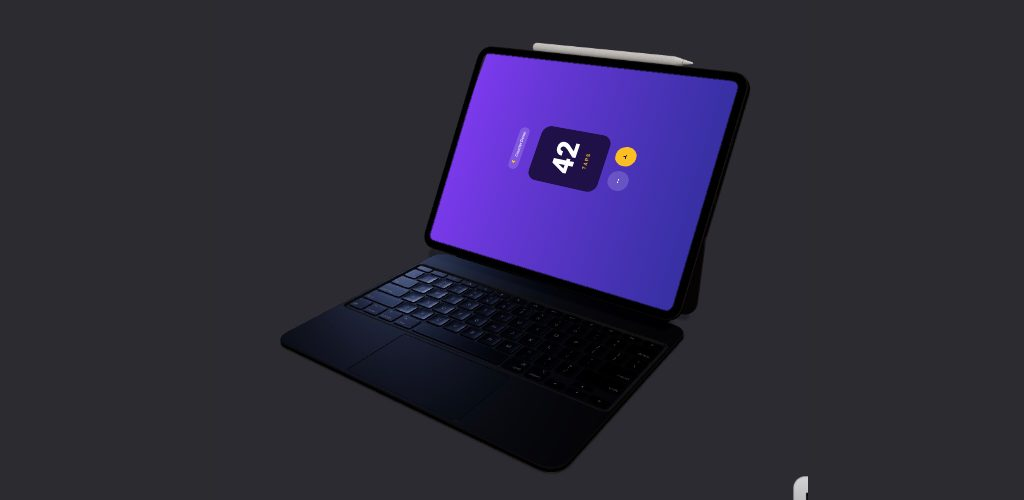
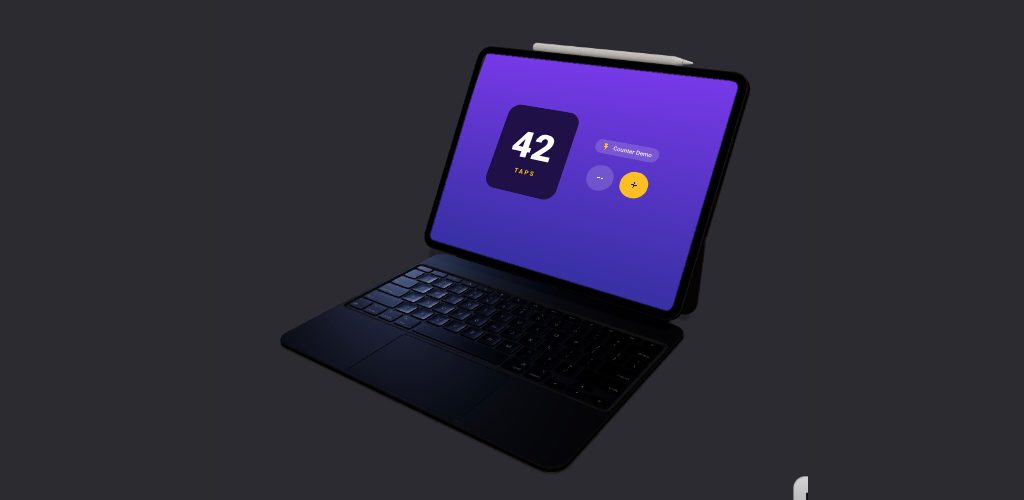
Collapse screens/deviceKinds/screenRotations into one Screen list
DeviceImageMockup took three parallel lists (the content lambdas, the
device kinds, the rotations) that had to line up by index. Replace them
with a single `screens: List<Screen>`, where Screen(kind, rotation?, content)
bundles each screen's settings in one place. Drop the scalar
`screenNativeWidth` too — width now comes from the kind (or a default when
the kind is null).

Changed region(s): [[0.4062, 0.12, 0.7188, 0.57]]

diff --git a/library/src/main/kotlin/dev/lucianosantos/storescreenshots/DeviceImageMockup.kt b/library/src/main/kotlin/dev/lucianosantos/storescreenshots/DeviceImageMockup.kt
@@ -37,9 +37,9 @@ import kotlin.math.min
 import kotlin.math.sin
 
 /**
- * A manual quarter-turn applied to a screen's content (clockwise), on top of the auto-detected
- * orientation. Pass via `DeviceImageMockup(..., screenRotations = …)` to override how the UI sits on
- * a screen — e.g. spin a square watch face or flip a device the detector guessed upside down.
+ * A manual quarter-turn applied to a screen's content (clockwise), on top of its [DeviceKind]/auto
+ * orientation. Pass it on a [Screen] (`Screen(kind, rotation = …) { … }`) to override how the UI sits —
+ * e.g. spin a square watch face or flip a device the detector guessed upside down.
  */
 enum class ScreenRotation(internal val quarterTurns: Int) {
     None(0),
@@ -52,9 +52,9 @@ enum class ScreenRotation(internal val quarterTurns: Int) {
 internal enum class KindOrientation { Portrait, Landscape, FromImage }
 
 /**
- * The kind of device a screen belongs to in a [DeviceImageMockup] frame. Pass one per screen
- * (left-to-right, matching the detected order) via `deviceKinds` to set each screen's orientation and
- * the width its UI is composed at — explicitly, instead of leaving it to geometry. That removes the
+ * The kind of device a screen belongs to in a [DeviceImageMockup] frame. Set it on a [Screen]
+ * (`Screen(DeviceKind.Desktop) { … }`) to fix that screen's orientation and the width its UI is
+ * composed at — explicitly, instead of leaving it to geometry. That removes the
  * ambiguity a near-square screen creates: a watch worn at an angle and a small landscape screen look
  * identical, so only you know which is which. Each kind also picks a sensible native layout width so a
  * desktop's UI isn't laid out at phone size.
@@ -71,6 +71,21 @@ enum class DeviceKind(internal val nativeWidth: Dp, internal val orientation: Ki
     /** A desktop monitor — landscape, composed at the largest width. */
     Desktop(1000.dp, KindOrientation.Landscape),
 }
+
+/** Width a screen's UI is laid out at when its [DeviceKind] is unknown (height follows the screen). */
+private val DefaultNativeWidth = 411.dp
+
+/**
+ * One screen to composite into a [DeviceImageMockup] frame. [kind] sets its orientation and the width
+ * its UI is laid out at; leave it `null` to let the library guess from the screen's shape. [rotation]
+ * applies an extra manual quarter-turn on top of that. [content] is the live UI to draw. Pass these
+ * left-to-right, matching the order screens are detected in the frame.
+ */
+class Screen(
+    val kind: DeviceKind? = null,
+    val rotation: ScreenRotation = ScreenRotation.None,
+    val content: @Composable () -> Unit,
+)
 
 /**
  * The four corners of a device screen inside a frame image, as fractions (0f..1f) of the image:
@@ -347,11 +362,11 @@ private fun minAreaRect(hull: List<Offset>): Pair<Float, List<Offset>> {
  * ```kotlin
  * DeviceImageMockup(
  *     frame = ImageBitmap.imageResource(R.drawable.three_phones),
- *     screens = listOf({ HomeScreen() }, { SettingsScreen() }, { ProfileScreen() }),
+ *     screens = listOf(Screen { HomeScreen() }, Screen { SettingsScreen() }, Screen { ProfileScreen() }),
  * )
  * ```
  *
- * Each screen's content is laid out at a real-device width ([screenNativeWidth], height derived
+ * Each [Screen]'s content is laid out at a real-device width (from its [Screen.kind], height derived
  * from that screen's detected quad so it isn't distorted), recorded, then perspective-warped onto
  * the quad. The whole mockup keeps the image's aspect ratio and is sized by [modifier].
  *
@@ -365,20 +380,17 @@ private fun minAreaRect(hull: List<Offset>): Pair<Float, List<Offset>> {
 @Composable
 fun DeviceImageMockup(
     frame: ImageBitmap,
-    screens: List<@Composable () -> Unit>,
+    screens: List<Screen>,
     modifier: Modifier = Modifier,
-    screenNativeWidth: Dp = 411.dp,
     screenColor: Color? = null,
     bezelDarkness: Float = 0.35f,
     screenColorTolerance: Float = 0.5f,
-    screenRotations: List<ScreenRotation> = emptyList(),
-    deviceKinds: List<DeviceKind> = emptyList(),
 ) {
     val regions = remember(frame, screenColor, bezelDarkness, screenColorTolerance) {
         if (screenColor != null) detectScreenRegionsByColor(frame, screenColor, screenColorTolerance)
         else detectScreenRegions(frame, bezelDarkness)
     }
-    DeviceImageMockup(frame, regions, screens, modifier, screenNativeWidth, screenColorTolerance, screenRotations, deviceKinds)
+    DeviceImageMockup(frame, regions, screens, modifier, screenColorTolerance)
 }
 
 /**
@@ -390,12 +402,9 @@ fun DeviceImageMockup(
 fun DeviceImageMockup(
     frame: ImageBitmap,
     regions: List<ScreenRegion>,
-    screens: List<@Composable () -> Unit>,
+    screens: List<Screen>,
     modifier: Modifier = Modifier,
-    screenNativeWidth: Dp = 411.dp,
     screenColorTolerance: Float = 0.5f,
-    screenRotations: List<ScreenRotation> = emptyList(),
-    deviceKinds: List<DeviceKind> = emptyList(),
 ) {
     val density = LocalDensity.current
     val fw = frame.width.toFloat()
@@ -405,16 +414,17 @@ fun DeviceImageMockup(
 
     // Width each screen's content is laid out at (height follows the screen's aspect). A device family
     // mixes very different sizes, so each screen takes its [DeviceKind]'s native width — a desktop laid
-    // out at phone width gets an oversized UI. Falls back to the single [screenNativeWidth].
-    fun nativeWidth(i: Int): Dp = deviceKinds.getOrNull(i)?.nativeWidth ?: screenNativeWidth
+    // out at phone width gets an oversized UI. With no kind, fall back to a default phone-ish width.
+    fun nativeWidth(i: Int): Dp = screens[i].kind?.nativeWidth ?: DefaultNativeWidth
 
     // Magic-wand each screen from its center at full resolution: flood the contiguous pixels close
     // in colour to the seed (the bezel's colour change stops the flood), which selects the EXACT
     // screen — out to the true edge, rounded corners and all. That mask is knocked out of the frame
     // (content shows through, bezel crops), and the content corners are recomputed from it so the UI
     // fills the screen with no inset rim.
-    val (knockedFrame, refined, visibleCounts) = remember(frame, regions, screenColorTolerance, deviceKinds) {
-        magicWandScreens(frame, regions.take(n), screenColorTolerance, deviceKinds.map { it.orientation })
+    val kinds = screens.take(n).map { it.kind }
+    val (knockedFrame, refined, visibleCounts) = remember(frame, regions, screenColorTolerance, kinds) {
+        magicWandScreens(frame, regions.take(n), screenColorTolerance, kinds.map { it?.orientation })
     }
 
     // The device silhouette (the original frame's own alpha): content is masked to it so overshoot
@@ -428,7 +438,7 @@ fun DeviceImageMockup(
     }
 
     // Optional manual quarter-turn per screen, on top of the auto-detected orientation.
-    fun steps(i: Int) = screenRotations.getOrElse(i) { ScreenRotation.None }.quarterTurns
+    fun steps(i: Int) = screens[i].rotation.quarterTurns
 
     // Content size: the screen's aspect, swapped for a quarter-turn so the rotated UI still fills it.
     fun nativeHeight(r: ScreenRegion, rotSteps: Int, nw: Dp): Dp {
@@ -453,7 +463,7 @@ fun DeviceImageMockup(
                         layout(0, 0) { placeable.place(0, 0) }
                     }
                     .drawWithContent { layers[i].record { [email redacted]() } }
-            ) { Box(Modifier.fillMaxSize()) { screens[i]() } }
+            ) { Box(Modifier.fillMaxSize()) { screens[i].content() } }
         }
 
         // Depth order: a screen partly hidden by another device's frame floods fewer pixels than its
@@ -822,19 +832,17 @@ fun DeviceImageMockup(
     screenBottomRight: Offset,
     screenBottomLeft: Offset,
     modifier: Modifier = Modifier,
-    screenNativeWidth: Dp = 411.dp,
     screenColorTolerance: Float = 0.5f,
+    kind: DeviceKind? = null,
     rotation: ScreenRotation = ScreenRotation.None,
     content: @Composable () -> Unit,
 ) {
     DeviceImageMockup(
         frame = frame,
         regions = listOf(ScreenRegion(screenTopLeft, screenTopRight, screenBottomRight, screenBottomLeft)),
-        screens = listOf(content),
+        screens = listOf(Screen(kind, rotation, content)),
         modifier = modifier,
-        screenNativeWidth = screenNativeWidth,
         screenColorTolerance = screenColorTolerance,
-        screenRotations = listOf(rotation),
     )
 }
 

diff --git a/example/src/screenshots/kotlin/dev/lucianosantos/storescreenshots/example/DeviceImageMockupTest.kt b/example/src/screenshots/kotlin/dev/lucianosantos/storescreenshots/example/DeviceImageMockupTest.kt
@@ -30,6 +30,7 @@ import androidx.compose.ui.unit.dp
 import androidx.compose.ui.unit.sp
 import dev.lucianosantos.storescreenshots.DeviceImageMockup
 import dev.lucianosantos.storescreenshots.DeviceKind
+import dev.lucianosantos.storescreenshots.Screen
 import dev.lucianosantos.storescreenshots.FormFactor
 import dev.lucianosantos.storescreenshots.StoreScreenshotsTest
 import org.junit.Test
@@ -47,9 +48,9 @@ class DeviceImageMockupTest : StoreScreenshotsTest(FormFactor.GooglePlayFeatureG
                 frame = frame("phone_mockup_trio.jpg"),
                 screens = listOf(
                     // Distinct counts and background colours — three independent screens, not one repeated.
-                    { CounterScreen(count = 7, background = Brush.verticalGradient(listOf(Color(0xFF2563EB), Color(0xFF1E3A8A)))) },
-                    { CounterScreen(count = 42) },
-                    { CounterScreen(count = 99, background = Brush.verticalGradient(listOf(Color(0xFFE11D48), Color(0xFF881337)))) },
+                    Screen { CounterScreen(count = 7, background = Brush.verticalGradient(listOf(Color(0xFF2563EB), Color(0xFF1E3A8A)))) },
+                    Screen { CounterScreen(count = 42) },
+                    Screen { CounterScreen(count = 99, background = Brush.verticalGradient(listOf(Color(0xFFE11D48), Color(0xFF881337)))) },
                 ),
                 modifier = Modifier.fillMaxHeight(),
             )
@@ -60,7 +61,7 @@ class DeviceImageMockupTest : StoreScreenshotsTest(FormFactor.GooglePlayFeatureG
     @Test
     fun device_image_podium() = customScreenshot {
         Box(Modifier.fillMaxSize().background(Color(0xFFF3DAD2)), contentAlignment = Alignment.Center) {
-            DeviceImageMockup(frame("phone_mockup_podium.jpg"), screens = listOf { CounterScreen(count = 42) }, modifier = Modifier.fillMaxHeight())
+            DeviceImageMockup(frame("phone_mockup_podium.jpg"), screens = listOf(Screen { CounterScreen(count = 42) }), modifier = Modifier.fillMaxHeight())
         }
     }
 
@@ -70,9 +71,9 @@ class DeviceImageMockupTest : StoreScreenshotsTest(FormFactor.GooglePlayFeatureG
         Box(Modifier.fillMaxSize().background(Color(0xFF2B2B30)), contentAlignment = Alignment.Center) {
             DeviceImageMockup(
                 frame("tablet_mockup_keyboard.jpg"),
-                screens = listOf { CounterScreen(count = 42) },
+                // kind = Tablet lays the UI out at tablet size (not phone size) and orients to the image.
+                screens = listOf(Screen(DeviceKind.Tablet) { CounterScreen(count = 42) }),
                 modifier = Modifier.fillMaxHeight(),
-                screenNativeWidth = 760.dp, // lay the UI out at tablet size, not phone size
             )
         }
     }
@@ -129,7 +130,7 @@ class DeviceImageMockupTest : StoreScreenshotsTest(FormFactor.GooglePlayFeatureG
                 Box(Modifier.weight(0.95f).fillMaxHeight(), contentAlignment = Alignment.Center) {
                     DeviceImageMockup(
                         frame("phone_chroma.png"),
-                        screens = listOf { CounterScreen(count = 42) },
+                        screens = listOf(Screen { CounterScreen(count = 42) }),
                         modifier = Modifier.fillMaxHeight(0.96f),
                         screenColor = Color.Green,
                         screenColorTolerance = 0.2f,
@@ -146,12 +147,11 @@ class DeviceImageMockupTest : StoreScreenshotsTest(FormFactor.GooglePlayFeatureG
         Box(Modifier.fillMaxSize().clipToBounds(), contentAlignment = Alignment.Center) {
             DeviceImageMockup(
                 frame("watch_chroma.png"),
-                screens = listOf { WearCounterScreen(count = 42) },
+                // kind = Watch orients by the longer edge (taller than wide) even worn at an angle.
+                screens = listOf(Screen(DeviceKind.Watch) { WearCounterScreen(count = 42) }),
                 modifier = Modifier.fillMaxWidth(),
                 screenColor = Color.Red,
                 screenColorTolerance = 0.2f,
-                // It's a watch — orient by the longer edge (taller than wide) even worn at an angle.
-                deviceKinds = listOf(DeviceKind.Watch),
             )
         }
     }
@@ -197,17 +197,15 @@ class DeviceImageMockupTest : StoreScreenshotsTest(FormFactor.GooglePlayFeatureG
             }
             DeviceImageMockup(
                 frame("four_devices_chroma.png"),
+                // Four independent screens (left-to-right) — each tagged with its device kind, which sets
+                // the orientation (landscape laptop/desktop, portrait phone/tablet) and native width —
+                // and given a different count AND background colour.
                 screens = listOf(
-                    // Four independent screens — different counts AND background colours, laid out
-                    // left-to-right: laptop, desktop, phone, tablet.
-                    { CounterScreen(count = 512, background = Brush.verticalGradient(listOf(Color(0xFF2563EB), Color(0xFF1E3A8A)))) },   // laptop
-                    { CounterScreen(count = 1024, background = Brush.verticalGradient(listOf(Color(0xFF059669), Color(0xFF064E3B)))) }, // desktop
-                    { CounterScreen(count = 7) },                                                                                        // phone (default purple)
-                    { CounterScreen(count = 42, background = Brush.verticalGradient(listOf(Color(0xFFF97316), Color(0xFF7C2D12)))) },    // tablet
+                    Screen(DeviceKind.Laptop) { CounterScreen(count = 512, background = Brush.verticalGradient(listOf(Color(0xFF2563EB), Color(0xFF1E3A8A)))) },
+                    Screen(DeviceKind.Desktop) { CounterScreen(count = 1024, background = Brush.verticalGradient(listOf(Color(0xFF059669), Color(0xFF064E3B)))) },
+                    Screen(DeviceKind.Phone) { CounterScreen(count = 7) },
+                    Screen(DeviceKind.Tablet) { CounterScreen(count = 42, background = Brush.verticalGradient(listOf(Color(0xFFF97316), Color(0xFF7C2D12)))) },
                 ),
-                // Tell the library each screen's device kind (left-to-right) — it sets the orientation
-                // (landscape laptop/desktop, portrait phone/tablet) and a fitting native layout width.
-                deviceKinds = listOf(DeviceKind.Laptop, DeviceKind.Desktop, DeviceKind.Phone, DeviceKind.Tablet),
                 modifier = Modifier.align(Alignment.BottomEnd).fillMaxHeight(0.74f),
                 screenColor = Color.Red,
                 screenColorTolerance = 0.25f,
@@ -223,8 +221,8 @@ class DeviceImageMockupTest : StoreScreenshotsTest(FormFactor.GooglePlayFeatureG
                 frame = frame("watch_phone_mockup.jpg"),
                 // Different count and background per device — the watch and phone run independent UIs.
                 screens = listOf(
-                    { WearCounterScreen(count = 7, background = Brush.verticalGradient(listOf(Color(0xFF059669), Color(0xFF064E3B)))) },
-                    { CounterScreen(count = 42) },
+                    Screen(DeviceKind.Watch) { WearCounterScreen(count = 7, background = Brush.verticalGradient(listOf(Color(0xFF059669), Color(0xFF064E3B)))) },
+                    Screen(DeviceKind.Phone) { CounterScreen(count = 42) },
                 ),
                 modifier = Modifier.fillMaxHeight().scale(1.5f).offset(x = 24.dp, y = 36.dp),
             )

diff --git a/example/src/debug/kotlin/dev/lucianosantos/storescreenshots/example/ScreenshotPreviews.kt b/example/src/debug/kotlin/dev/lucianosantos/storescreenshots/example/ScreenshotPreviews.kt
@@ -34,6 +34,7 @@ import androidx.compose.ui.unit.sp
 import dev.lucianosantos.storescreenshots.AppleIPhone67ScreenshotPreview
 import dev.lucianosantos.storescreenshots.DeviceImageMockup
 import dev.lucianosantos.storescreenshots.DeviceKind
+import dev.lucianosantos.storescreenshots.Screen
 import dev.lucianosantos.storescreenshots.DeviceMockup
 import dev.lucianosantos.storescreenshots.FormFactor
 import dev.lucianosantos.storescreenshots.GooglePlayFeatureGraphicScreenshotPreview
@@ -135,9 +136,9 @@ fun DeviceImageTrioPreview() {
         DeviceImageMockup(
             frame = mockupFrame("phone_mockup_trio.jpg"),
             screens = listOf(
-                { CounterScreen(count = 7, background = Brush.verticalGradient(listOf(Color(0xFF2563EB), Color(0xFF1E3A8A)))) },
-                { CounterScreen(count = 42) },
-                { CounterScreen(count = 99, background = Brush.verticalGradient(listOf(Color(0xFFE11D48), Color(0xFF881337)))) },
+                Screen { CounterScreen(count = 7, background = Brush.verticalGradient(listOf(Color(0xFF2563EB), Color(0xFF1E3A8A)))) },
+                Screen { CounterScreen(count = 42) },
+                Screen { CounterScreen(count = 99, background = Brush.verticalGradient(listOf(Color(0xFFE11D48), Color(0xFF881337)))) },
             ),
             modifier = Modifier.fillMaxHeight(),
         )
@@ -148,7 +149,7 @@ fun DeviceImageTrioPreview() {
 @Composable
 fun DeviceImagePodiumPreview() {
     Box(Modifier.fillMaxSize().background(Color(0xFFF3DAD2)), contentAlignment = Alignment.Center) {
-        DeviceImageMockup(mockupFrame("phone_mockup_podium.jpg"), screens = listOf { CounterScreen(count = 42) }, modifier = Modifier.fillMaxHeight())
+        DeviceImageMockup(mockupFrame("phone_mockup_podium.jpg"), screens = listOf(Screen { CounterScreen(count = 42) }), modifier = Modifier.fillMaxHeight())
     }
 }
 
@@ -158,9 +159,8 @@ fun DeviceImageTabletPreview() {
     Box(Modifier.fillMaxSize().background(Color(0xFF2B2B30)), contentAlignment = Alignment.Center) {
         DeviceImageMockup(
             mockupFrame("tablet_mockup_keyboard.jpg"),
-            screens = listOf { CounterScreen(count = 42) },
+            screens = listOf(Screen(DeviceKind.Tablet) { CounterScreen(count = 42) }),
             modifier = Modifier.fillMaxHeight(),
-            screenNativeWidth = 760.dp,
         )
     }
 }
@@ -184,7 +184,7 @@ fun DeviceImageChromaPreview() {
             Box(Modifier.weight(0.95f).fillMaxHeight(), contentAlignment = Alignment.Center) {
                 DeviceImageMockup(
                     mockupFrame("phone_chroma.png"),
-                    screens = listOf { CounterScreen(count = 42) },
+                    screens = listOf(Screen { CounterScreen(count = 42) }),
                     modifier = Modifier.fillMaxHeight(0.96f),
                     screenColor = Color.Green,
                     screenColorTolerance = 0.2f,
@@ -200,9 +200,8 @@ fun DeviceImageWatchChromaPreview() {
     Box(Modifier.fillMaxSize().clipToBounds(), contentAlignment = Alignment.Center) {
         DeviceImageMockup(
             mockupFrame("watch_chroma.png"),
-            screens = listOf { WearCounterScreen(count = 42) },
+            screens = listOf(Screen(DeviceKind.Watch) { WearCounterScreen(count = 42) }),
             modifier = Modifier.fillMaxWidth(),
-            screenNativeWidth = 200.dp,
             screenColor = Color.Red,
             screenColorTolerance = 0.2f,
         )
@@ -216,8 +215,8 @@ fun DeviceImageWatchPhonePreview() {
         DeviceImageMockup(
             frame = mockupFrame("watch_phone_mockup.jpg"),
             screens = listOf(
-                { WearCounterScreen(count = 7, background = Brush.verticalGradient(listOf(Color(0xFF059669), Color(0xFF064E3B)))) },
-                { CounterScreen(count = 42) },
+                Screen(DeviceKind.Watch) { WearCounterScreen(count = 7, background = Brush.verticalGradient(listOf(Color(0xFF059669), Color(0xFF064E3B)))) },
+                Screen(DeviceKind.Phone) { CounterScreen(count = 42) },
             ),
             modifier = Modifier.fillMaxHeight().scale(1.5f).offset(x = 24.dp, y = 36.dp),
         )
@@ -241,12 +240,11 @@ fun DeviceImageFourDevicesChromaPreview() {
         DeviceImageMockup(
             mockupFrame("four_devices_chroma.png"),
             screens = listOf(
-                { CounterScreen(count = 512, background = Brush.verticalGradient(listOf(Color(0xFF2563EB), Color(0xFF1E3A8A)))) },
-                { CounterScreen(count = 1024, background = Brush.verticalGradient(listOf(Color(0xFF059669), Color(0xFF064E3B)))) },
-                { CounterScreen(count = 7) },
-                { CounterScreen(count = 42, background = Brush.verticalGradient(listOf(Color(0xFFF97316), Color(0xFF7C2D12)))) },
+                Screen(DeviceKind.Laptop) { CounterScreen(count = 512, background = Brush.verticalGradient(listOf(Color(0xFF2563EB), Color(0xFF1E3A8A)))) },
+                Screen(DeviceKind.Desktop) { CounterScreen(count = 1024, background = Brush.verticalGradient(listOf(Color(0xFF059669), Color(0xFF064E3B)))) },
+                Screen(DeviceKind.Phone) { CounterScreen(count = 7) },
+                Screen(DeviceKind.Tablet) { CounterScreen(count = 42, background = Brush.verticalGradient(listOf(Color(0xFFF97316), Color(0xFF7C2D12)))) },
             ),
-            deviceKinds = listOf(DeviceKind.Laptop, DeviceKind.Desktop, DeviceKind.Phone, DeviceKind.Tablet),
             modifier = Modifier.align(Alignment.BottomEnd).fillMaxHeight(0.74f),
             screenColor = Color.Red,
             screenColorTolerance = 0.25f,

diff --git a/README.md b/README.md
@@ -426,19 +426,25 @@ automatically, and your UI fills each one (the device's own bezel does the cropp
 @Test fun home() = customScreenshot {
     DeviceImageMockup(
         frame = frame("three_phones.jpg"),
-        screens = listOf({ HomeScreen() }, { SettingsScreen() }, { ProfileScreen() }), // left → right
+        screens = listOf(Screen { HomeScreen() }, Screen { SettingsScreen() }, Screen { ProfileScreen() }), // left → right
     )
 }
 ```
 
-`screens` are matched to the detected screens left-to-right (pass one for a single-device render).
+Each `Screen` is matched to the detected screens left-to-right (pass one for a single-device render).
 Size and place the mockup with the `modifier` — `Modifier.fillMaxHeight()` fits it inside the canvas,
 and you can zoom or reframe it with ordinary modifiers, e.g. `Modifier.fillMaxHeight().scale(1.5f).offset(x = 24.dp, y = 36.dp)`.
 
-Phones come out portrait and tablets landscape; override a screen's orientation with `screenRotations`:
+A `Screen` optionally takes a device `kind` and a manual `rotation`. The `kind` (`Watch`, `Phone`,
+`Tablet`, `Laptop`, `Desktop`) sets the screen's orientation and the width its UI is laid out at — useful
+for a mixed device family where geometry alone can't tell a sideways watch from a small landscape screen.
+The `rotation` adds a manual quarter-turn on top:
 
 ```kotlin
-screenRotations = listOf(ScreenRotation.None, ScreenRotation.Clockwise90) // None / Clockwise90 / 180 / 270
+screens = listOf(
+    Screen(DeviceKind.Desktop) { HomeScreen() },                          // landscape, laid out large
+    Screen(DeviceKind.Watch, rotation = ScreenRotation.Clockwise90) { WatchFace() },
+)
 ```
 
 ### Where to put the frame image
@@ -471,7 +477,7 @@ bezel, body and background entirely (each connected blob of the colour becomes o
 ```kotlin
 DeviceImageMockup(
     frame = frame("phone_green_screen.png"),
-    screens = listOf { HomeScreen() },
+    screens = listOf(Screen { HomeScreen() }),
     screenColor = Color(0xFF00C85A),   // the colour you painted the screen
     screenColorTolerance = 0.22f,      // widen if JPEG softened the colour, tighten if it leaks
 )